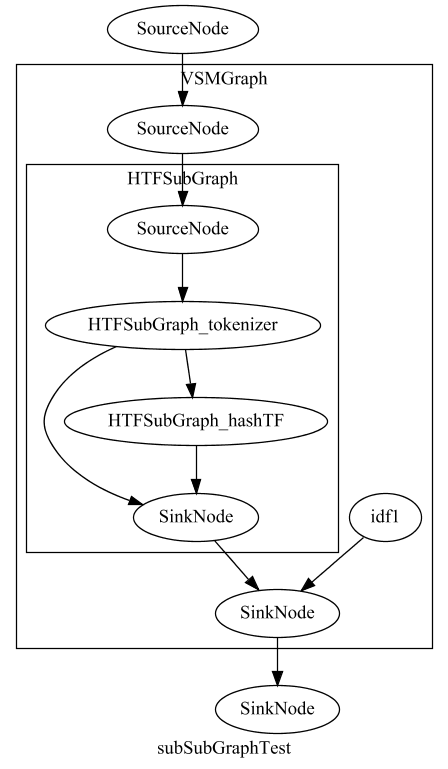
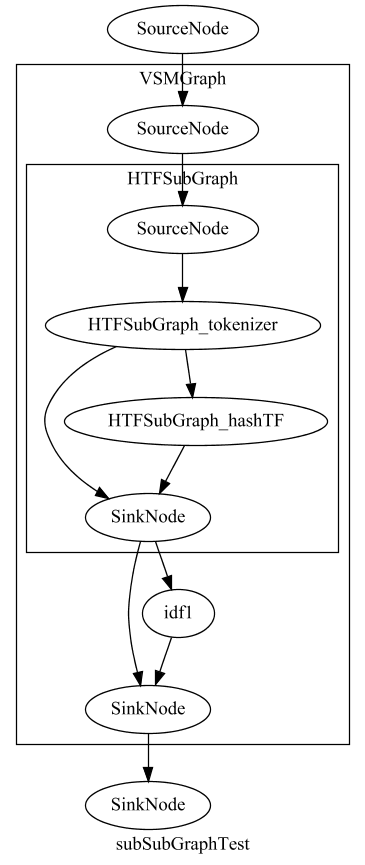
fix the addedfield name duplication name by adding unique new filed names

diff --git a/src/main/java/core/pipelineOptimizer/PipelineOptimizer.java b/src/main/java/core/pipelineOptimizer/PipelineOptimizer.java
@@ -15,6 +15,18 @@ import static core.graphPipeline.basic.SGraph.topologicalSort;
  *
  */
 public class PipelineOptimizer {
+
+    /**
+     * During optimization some new filed will be generated and inserted into the graph. To avoid the conflict between
+     * this names and the user defined name we use the format of source/target filed name + uuid. It can increase the readability
+     * and make the name unique.
+     *
+     * @return
+     */
+    private static String createUniqueNewFieldName(IOTableCell cell) {
+        return cell.getFieldSymbol().getSymbolName() + "-" + UUID.randomUUID();
+    }
+
     /**
      * If the output filed targetCell generate exactly same content as sourceCell, then user can use this function can
      * transfer the dependency of targetCell to sourceCell. penetration can reduce duplicated work and further simplify
@@ -32,19 +44,25 @@ public class PipelineOptimizer {
 
         Vertex sourceTopParentNode = null;
         Vertex targetTopParentNode = null;
+        String sourceOutputFieldName = sourceCell.getFieldSymbol().getSymbolName();
+
+        String addedOutputFieldName = createUniqueNewFieldName(sourceCell);
+        String addedInputFieldName = createUniqueNewFieldName(targetCell);
+
         if (sourceToLCAPath.size() > 0) {
+            boolean isPenetratedVertex = true;
             //Add the sourceCell as an output to all the SGraph in the sourceToLCAPath
             Vertex subGraph = sourceCell.getParentTable().getContext();
-            // TODO: Use unique name here to avoid name conflict
-            // Since the outputField use name from sourceCell, it is possible that newOutField symbol conflict existing
-            // name. A unique symbol name solve the problem.Its value won't change since this symbol receive value from
-            // source cell and will not use its default symbol name as value.
-            String addedOutputFieldName = sourceCell.getFieldSymbol().getSymbolName();
             for (GraphHierarchyTree treeNode : sourceToLCAPath) {
                 SGraph curGraph = treeNode.getNodeContent();
                 Symbol newOutField = new Symbol(curGraph, addedOutputFieldName);//expand the output filed of parent graph
                 curGraph.addOutputField(newOutField);
-                curGraph.connect(subGraph, addedOutputFieldName, curGraph.sinkNode, addedOutputFieldName);
+                if (isPenetratedVertex) {
+                    curGraph.connect(subGraph, sourceOutputFieldName, curGraph.sinkNode, addedOutputFieldName);
+                    isPenetratedVertex = false;
+                } else {
+                    curGraph.connect(subGraph, addedOutputFieldName, curGraph.sinkNode, addedOutputFieldName);
+                }
                 subGraph = curGraph;
             }
             sourceTopParentNode = sourceToLCAPath.get(sourceToLCAPath.size() - 1).getNodeContent();
@@ -57,7 +75,6 @@ public class PipelineOptimizer {
             //Add the targetCell as an input to all the SGraph in the targetToLCAPath
             boolean isPenetratedVertex = true; //The first vertex we process is where penetrated filed reside.
             Vertex subGraph = null; // starting from the graph that contains penetrated vertex, there is not sub graph
-            String addedInputFieldName = targetCell.getFieldSymbol().getSymbolName();
 
             for (GraphHierarchyTree treeNode : targetToLCAPath) {
                 SGraph curGraph = treeNode.getNodeContent();
@@ -89,7 +106,7 @@ public class PipelineOptimizer {
 
         SGraph lcaNode = lcaResult.LCANode.getNodeContent();
         if (targetTopParentNode instanceof SGraph) {
-            lcaNode.connect(sourceTopParentNode, sourceCell.getFieldSymbol().getSymbolName(), targetTopParentNode, targetCell.getFieldSymbol().getSymbolName());
+            lcaNode.connect(sourceTopParentNode, addedOutputFieldName, targetTopParentNode, addedInputFieldName);
         } else {
             List<IOTableCell> linkedCells = targetCell.getOutputTarget();
             for (IOTableCell linkedCell : new ArrayList<>(linkedCells)) {

diff --git a/src/main/java/core/graphPipeline/basic/Vertex.java b/src/main/java/core/graphPipeline/basic/Vertex.java
@@ -68,7 +68,13 @@ abstract public class Vertex {
         return this;
     }
 
+    private void checkSymbolValid(Symbol symbol) {
+        assert !(inputTable.containsSymbol(symbol) || outputTable.containsSymbol(symbol));
+        assert symbol.getScope().equals(this);
+    }
+
     public Vertex addInputField(Symbol symbol) throws Exception {
+        checkSymbolValid(symbol);
         IOTableCell cell = new IOTableCell(symbol);
         inputTable.addCell(cell);
         SymbolTable.registerInputSymbol(symbol);
@@ -112,7 +118,7 @@ abstract public class Vertex {
     }
 
     public Vertex addOutputField(Symbol symbol) throws Exception {
-        assert symbol.getScope().equals(this);
+        checkSymbolValid(symbol);
         IOTableCell cell = new IOTableCell(symbol);
         outputTable.addCell(cell);
         SymbolTable.registerOutputSymbol(symbol);
